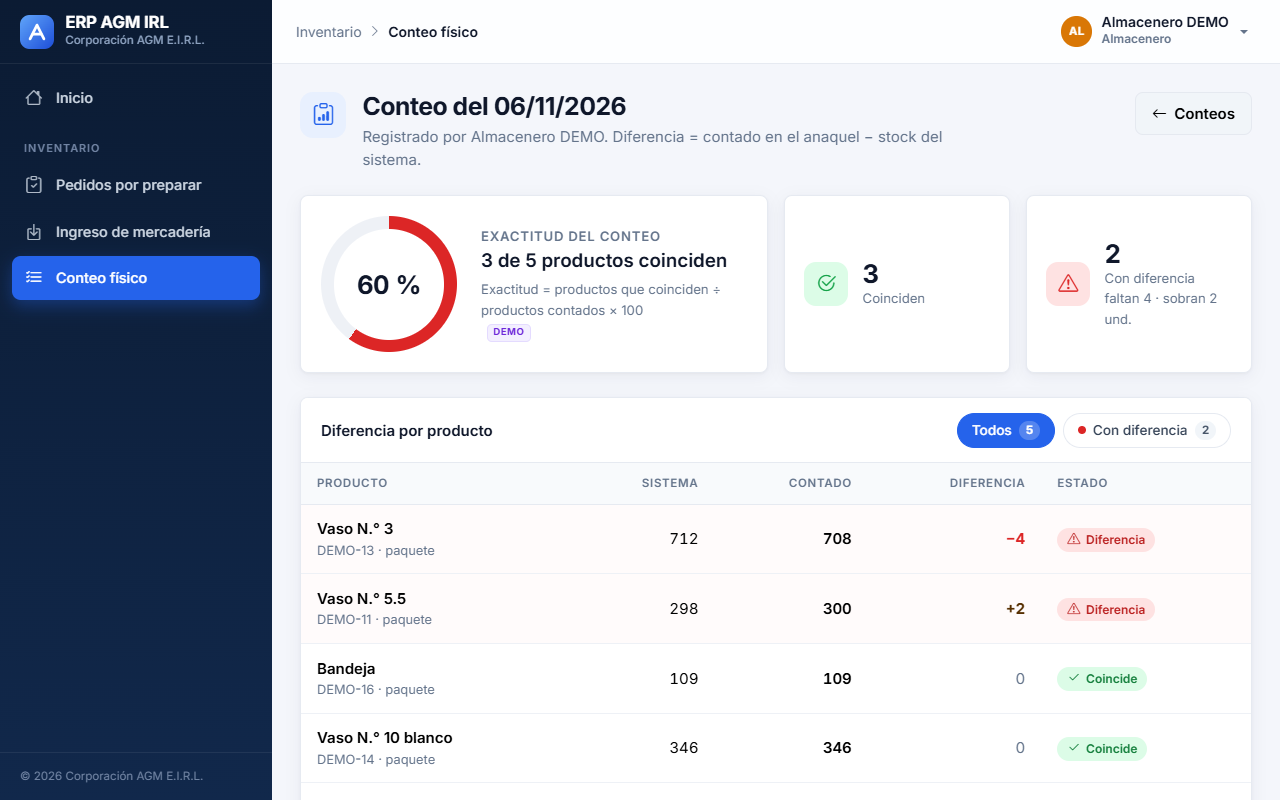
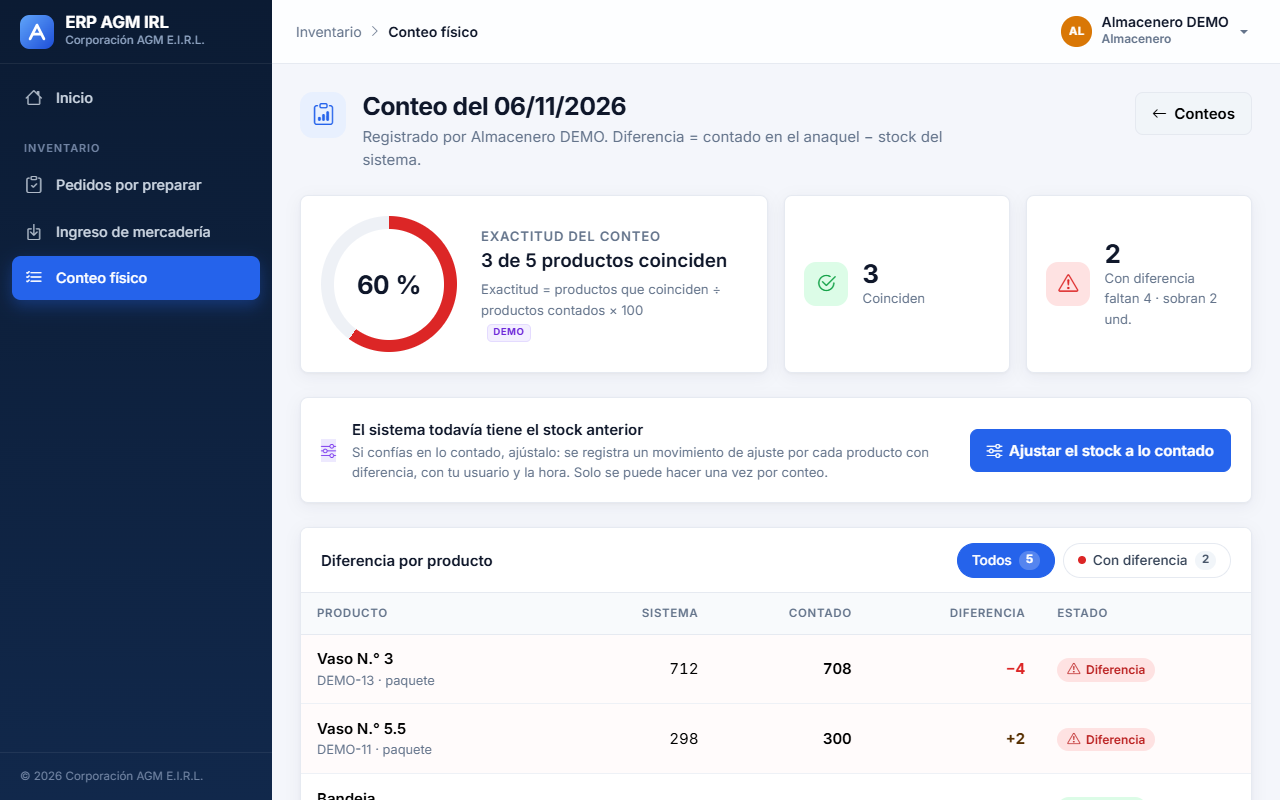
Evidencia del Sprint 2 actualizada: ajuste del stock después del conteo
Sprint 2 aprobado. Capturas del ajuste (confirmación, conteo ajustado y
movimientos de ajuste en el historial) y Sprint Review con la decisión.

diff --git a/docs/sprints/sprint-2/review.md b/docs/sprints/sprint-2/review.md
@@ -6,10 +6,11 @@
 | Fecha de la review | 06/11/2026 |
 | Fecha planificada (Tabla II) | 16/11 al 20/11 |
 | Commit del incremento | `10b4649` — «Sprint 2: módulo de inventario (HU05 a HU08)» (06/11/2026) |
-| Pruebas automáticas del backend | **102 de 102 correctas** (27 nuevas en este sprint + 75 de los sprints 0 y 1) |
+| Pruebas automáticas del backend | **108 de 108 correctas** (33 nuevas en este sprint, 6 de ellas del ajuste del conteo, + 75 de los sprints 0 y 1) |
 | Compilación del frontend | `npm run build` sin errores |
-| Pruebas en navegador (Chrome) | **41 de 41** comprobaciones del Sprint 2 (flujos de HU05 a HU08, permisos y celular) y **54 de 54** de regresión de los sprints 0 y 1 |
-| Resultado | Pendiente del visto bueno del Product Owner |
+| Pruebas en navegador (Chrome) | **47 de 47** comprobaciones del Sprint 2 (flujos de HU05 a HU08 con el ajuste del conteo, permisos y celular) y **54 de 54** de regresión de los sprints 0 y 1 |
+| Resultado | **Aprobado** por el Product Owner el 06/11/2026 |
+| Cambio acordado en la review | «Ajustar el stock a lo contado», commit `5efd8ab` (06/11/2026); ver la sección «Decisión tomada en la review» |
 
 ## Objetivo del sprint
 
@@ -24,7 +25,7 @@ que mide la exactitud del inventario.
 | HU05 | Como almacenero, quiero ver los pedidos pendientes en el orden en que llegan, para prepararlos sin esperar el papel. | La lista muestra cada pedido nuevo apenas se registra. | 4 (`inventario/tests/test_hu05_pedidos_por_preparar.py`) | ✅ Terminada |
 | HU06 | Como almacenero, quiero confirmar el pedido preparado, para que se descuente el stock y quede la hora de conformidad. | Al confirmar, el stock baja en las cantidades del pedido y se guarda la hora. | 7 (`inventario/tests/test_hu06_confirmar_pedido.py`) | ✅ Terminada |
 | HU07 | Como almacenero, quiero registrar el ingreso de mercadería, para mantener el stock al día. | El ingreso aumenta el stock y queda en el historial de movimientos. | 7 (`inventario/tests/test_hu07_ingresos.py`) | ✅ Terminada |
-| HU08 | Como almacenero, quiero registrar el conteo físico, para comparar el stock real con el del sistema. | El sistema muestra la diferencia de cada producto y la exactitud del conteo. | 9 (`inventario/tests/test_hu08_conteo_fisico.py`) | ✅ Terminada |
+| HU08 | Como almacenero, quiero registrar el conteo físico, para comparar el stock real con el del sistema. | El sistema muestra la diferencia de cada producto y la exactitud del conteo. *Acordado en esta review:* el stock se puede ajustar a lo contado una sola vez por conteo. | 15 (`inventario/tests/test_hu08_conteo_fisico.py` y `test_hu08_ajuste_conteo.py`) | ✅ Terminada |
 
 ### Cómo se cumple cada criterio
 
@@ -62,7 +63,7 @@ que mide la exactitud del inventario.
 - `test_el_ingreso_aumenta_el_stock_y_queda_en_el_historial` (HU07).
 - `test_muestra_la_diferencia_de_cada_producto_y_la_exactitud` (HU08): 4 productos, 2 coinciden → 50 %.
 
-## Detalle de las pruebas automáticas (102)
+## Detalle de las pruebas automáticas (108)
 
 | Archivo | Pruebas | Sprint |
 |---|---|---|
@@ -70,9 +71,10 @@ que mide la exactitud del inventario.
 | `inventario/tests/test_hu06_confirmar_pedido.py` | 7 | 2 |
 | `inventario/tests/test_hu07_ingresos.py` | 7 | 2 |
 | `inventario/tests/test_hu08_conteo_fisico.py` | 9 | 2 |
+| `inventario/tests/test_hu08_ajuste_conteo.py` | 6 | 2 |
 | Pruebas del Sprint 1 (HU01 a HU04 y filtros del rediseño) | 35 | 1 |
 | Pruebas del Sprint 0 (modelos, autenticación y datos DEMO) | 40 | 0 |
-| **Total** | **102** | |
+| **Total** | **108** | |
 
 ## Evidencia (Chrome, 1280×800, datos DEMO)
 
@@ -120,6 +122,18 @@ que mide la exactitud del inventario.
 
 ![Diferencias y exactitud](HU08-diferencias-y-exactitud.png)
 
+**HU08 — «Ajustar el stock a lo contado»: la confirmación muestra el ajuste de cada producto**
+
+![Confirmar ajuste](HU08-ajustar-stock-confirmacion.png)
+
+**HU08 — Stock ajustado: el conteo queda marcado y el botón ya no aparece (una sola vez por conteo)**
+
+![Stock ajustado](HU08-stock-ajustado.png)
+
+**HU08 — Los movimientos de ajuste (−4 y +2), con usuario y hora, en el historial**
+
+![Ajustes en el historial](HU08-ajustes-en-el-historial.png)
+
 ## Decisiones de implementación (no cambian el diseño)
 
 - **Recarga periódica.** La lista del almacén se actualiza cada 10 segundos, como permite el prompt («puede ser con
@@ -138,13 +152,22 @@ que mide la exactitud del inventario.
   `ingresos/`, `movimientos/`, `conteos/` y `categorias/`; el listado de productos acepta `?categoria=`. Todos validan
   el rol en el backend (almacenero y gerente).
 
-## Para decidir en esta review
+## Decisión tomada en la review
 
-- **Ajuste del stock después del conteo.** El modelo de datos tiene el tipo de movimiento «ajuste» (Fig. 10), pero
-  ninguna historia de usuario dice cuándo se usa. Hoy el conteo **solo compara**: no corrige el stock del sistema, así
-  que una diferencia seguirá apareciendo en el siguiente conteo. Propuesta: en el resultado del conteo, un botón «Ajustar
-  el stock a lo contado» que cree un movimiento de ajuste por cada producto con diferencia. No se implementó porque no
-  está en la Tabla V; queda a criterio del Product Owner.
+| Tema | Decisión del Product Owner |
+|---|---|
+| Ajuste del stock después del conteo | Se agrega en el resultado del conteo el botón «Ajustar el stock a lo contado». Crea un movimiento de tipo «ajuste» (Fig. 10) por cada producto con diferencia, con usuario y hora del sistema, y se puede usar una sola vez por conteo. |
+
+Cómo quedó (commit `5efd8ab`):
+
+- La cantidad del ajuste es la diferencia del conteo (contado − sistema), con signo. Se **suma** al stock actual en vez
+  de reemplazarlo por lo contado, para no borrar las entradas o salidas registradas después del conteo.
+- Antes de ajustar se pide confirmación con la lista de productos y su diferencia. Después, el conteo queda marcado
+  «Stock ajustado» con la fecha y la hora, y el botón desaparece; un segundo intento se rechaza (409).
+- Si algún producto quedaría con stock negativo, no se ajusta ninguno. Si todo coincide, no hay nada que ajustar.
+- La exactitud del conteo no cambia con el ajuste: mide cómo estaba el inventario cuando se contó.
+- Para recordar que un conteo ya se ajustó se agregó el campo técnico `hora_ajuste` en ConteoFisico (migración
+  `0003`), igual que `es_demo`: no cambia las relaciones ni los demás atributos del modelo de datos.
 
 ## Observaciones
 

diff --git a/README.md b/README.md
@@ -18,7 +18,7 @@ Apps del backend: `usuarios`, `ventas`, `inventario`, `distribucion` y `recomend
 |---|---|---|
 | 0 | Preparación: repositorio, Docker, 13 modelos, JWT, admin, `seed_demo`, React con inicio de sesión y menú por rol | ✅ listo — [Sprint Review](docs/sprints/sprint-0/review.md) |
 | 1 | Ventas (HU01 a HU04): usuarios y roles, clientes, stock disponible con reserva, registro de pedido | ✅ listo — [Sprint Review](docs/sprints/sprint-1/review.md) |
-| 2 | Inventario (HU05 a HU08): pedidos por preparar en orden de llegada, conformidad con descuento de stock, ingresos de mercadería y conteo físico con exactitud | ✅ listo — [Sprint Review](docs/sprints/sprint-2/review.md) |
+| 2 | Inventario (HU05 a HU08): pedidos por preparar en orden de llegada, conformidad con descuento de stock, ingresos de mercadería y conteo físico con exactitud y ajuste del stock | ✅ listo — [Sprint Review](docs/sprints/sprint-2/review.md) |
 | 3 | Distribución (HU09 a HU11) | pendiente |
 | 4 | Recomendaciones explicadas (HU12 a HU15) | pendiente |
 
